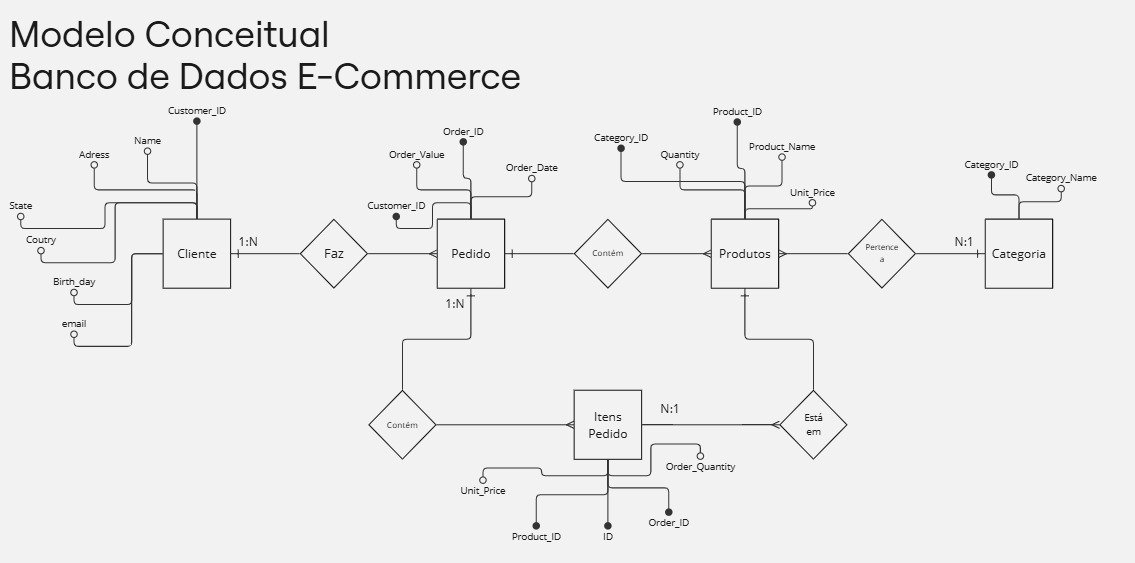
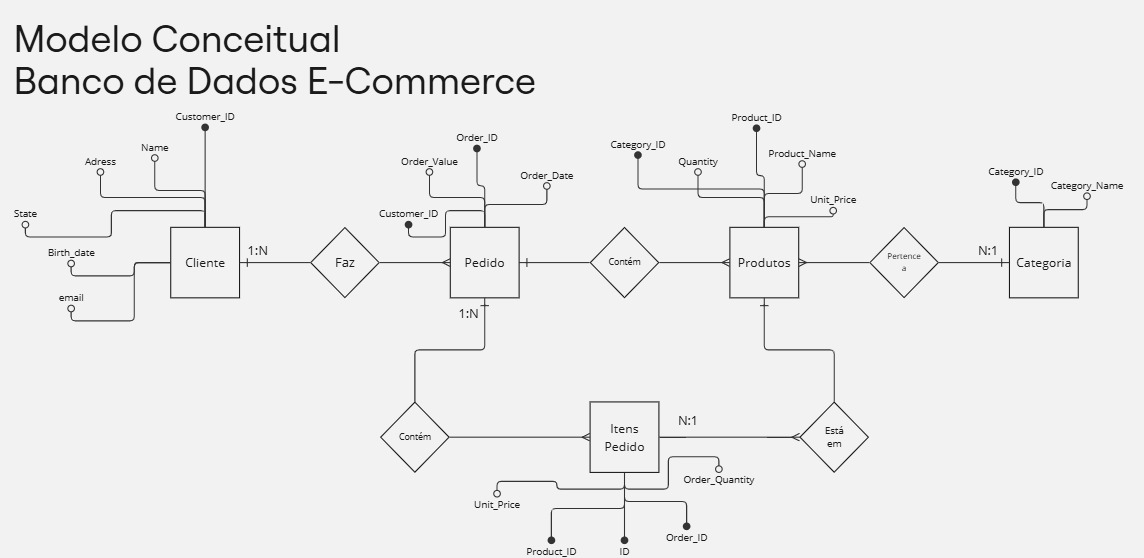
Fixing data modelling files

Changed region(s): [[0.0, 0.0305, 0.9868, 0.9749], [0.4317, 0.914, 0.5242, 1.0], [0.0617, 0.2742, 0.0925, 0.3351]]

diff --git a/docs/database-design.md b/docs/database-design.md
@@ -39,30 +39,29 @@ Especificar os tipos de dados para cada coluna das tabelas.
 
 | Atributo       | Tipo de Dado | Chave Primária | Chave Estrangeira | Descrição                                  |
 |----------------|--------------|----------------|-------------------|--------------------------------------------|
-| Customer_ID    | Integer      | Sim            | Não               | Identificador único do cliente             |
+| Customer_ID    | Character    | Sim            | Não               | Identificador único do cliente             |
 | Name           | Character    | Não            | Não               | Nome completo do cliente                   |
 | Email          | Character    | Não            | Não               | Endereço de e-mail do cliente              |
 | Address        | Character    | Não            | Não               | Endereço físico do cliente                 |
 | Birth_Day      | Date         | Não            | Não               | Data de nascimento do cliente              |
 | State          | Character    | Não            | Não               | Estado onde o cliente reside               |
-| Country        | Character    | Não            | Não               | País onde o cliente reside                 |
 
 ***Order*** (Pedido)
 
 | Atributo       | Tipo de Dado | Chave Primária | Chave Estrangeira | Descrição                                  |
 |----------------|--------------|----------------|-------------------|--------------------------------------------|
-| Order_ID       | Integer      | Sim            | Não               | Identificador único do pedido              |
+| Order_ID       | Character    | Sim            | Não               | Identificador único do pedido              |
 | Order_date     | Datetime     | Não            | Não               | Data e hora em que o pedido foi feito      |
 | Order_Value    | Real         | Não            | Não               | Valor total do pedido                      |
-| Customer_ID    | Integer      | Não            | Sim               | ID do cliente que fez o pedido (FK)        |
+| Customer_ID    | Character    | Não            | Sim               | ID do cliente que fez o pedido (FK)        |
 
 ***Products*** (Produtos)
 
 | Atributo       | Tipo de Dado | Chave Primária | Chave Estrangeira | Descrição                                  |
 |----------------|--------------|----------------|-------------------|--------------------------------------------|
-| Product_ID     | Integer      | Sim            | Não               | Identificador único do produto             |
+| Product_ID     | Character    | Sim            | Não               | Identificador único do produto             |
 | Product_name   | Character    | Não            | Não               | Nome do produto                            |
-| Category_ID    | Integer      | Não            | Sim               | ID da categoria do produto (FK)           |
+| Category_ID    | Character    | Não            | Sim               | ID da categoria do produto (FK)           |
 | Unit_Price     | Real         | Não            | Não               | Preço unitário do produto                  |
 | Quantity       | Integer      | Não            | Não               | Quantidade em estoque do produto           |
 
@@ -70,17 +69,17 @@ Especificar os tipos de dados para cada coluna das tabelas.
 
 | Atributo       | Tipo de Dado | Chave Primária | Chave Estrangeira | Descrição                                  |
 |----------------|--------------|----------------|-------------------|--------------------------------------------|
-| Category_ID    | Integer      | Sim            | Não               | Identificador único da categoria           |
+| Category_ID    | Character    | Sim            | Não               | Identificador único da categoria           |
 | Category_name  | Character    | Não            | Não               | Nome da categoria                          |
 
 ***Order_Items*** (Itens do Pedido)
 
 | Atributo       | Tipo de Dado | Chave Primária | Chave Estrangeira | Descrição                                  |
 |----------------|--------------|----------------|-------------------|--------------------------------------------|
-| ID             | Integer     | Sim            | Não               | Identificador único do item do pedido      |
-| Order_ID       | Integer     | Não            | Sim               | ID do pedido ao qual o item pertence (FK)  |
-| Product_ID     | Integer     | Não            | Sim               | ID do produto do item (FK)                |
-| Order_Quantity | Integer     | Não            | Não               | Quantidade do produto no pedido            |
+| ID             | Character    | Sim            | Não               | Identificador único do item do pedido      |
+| Order_ID       | Character    | Não            | Sim               | ID do pedido ao qual o item pertence (FK)  |
+| Product_ID     | Character    | Não            | Sim               | ID do produto do item (FK)                |
+| Order_Quantity | Integer      | Não            | Não               | Quantidade do produto no pedido            |
 | Unit_Price     | Real         | Não            | Não               | Preço unitário do produto no pedido        |
 
 ## 3. Definição das Chaves Primárias e Estrangeiras
